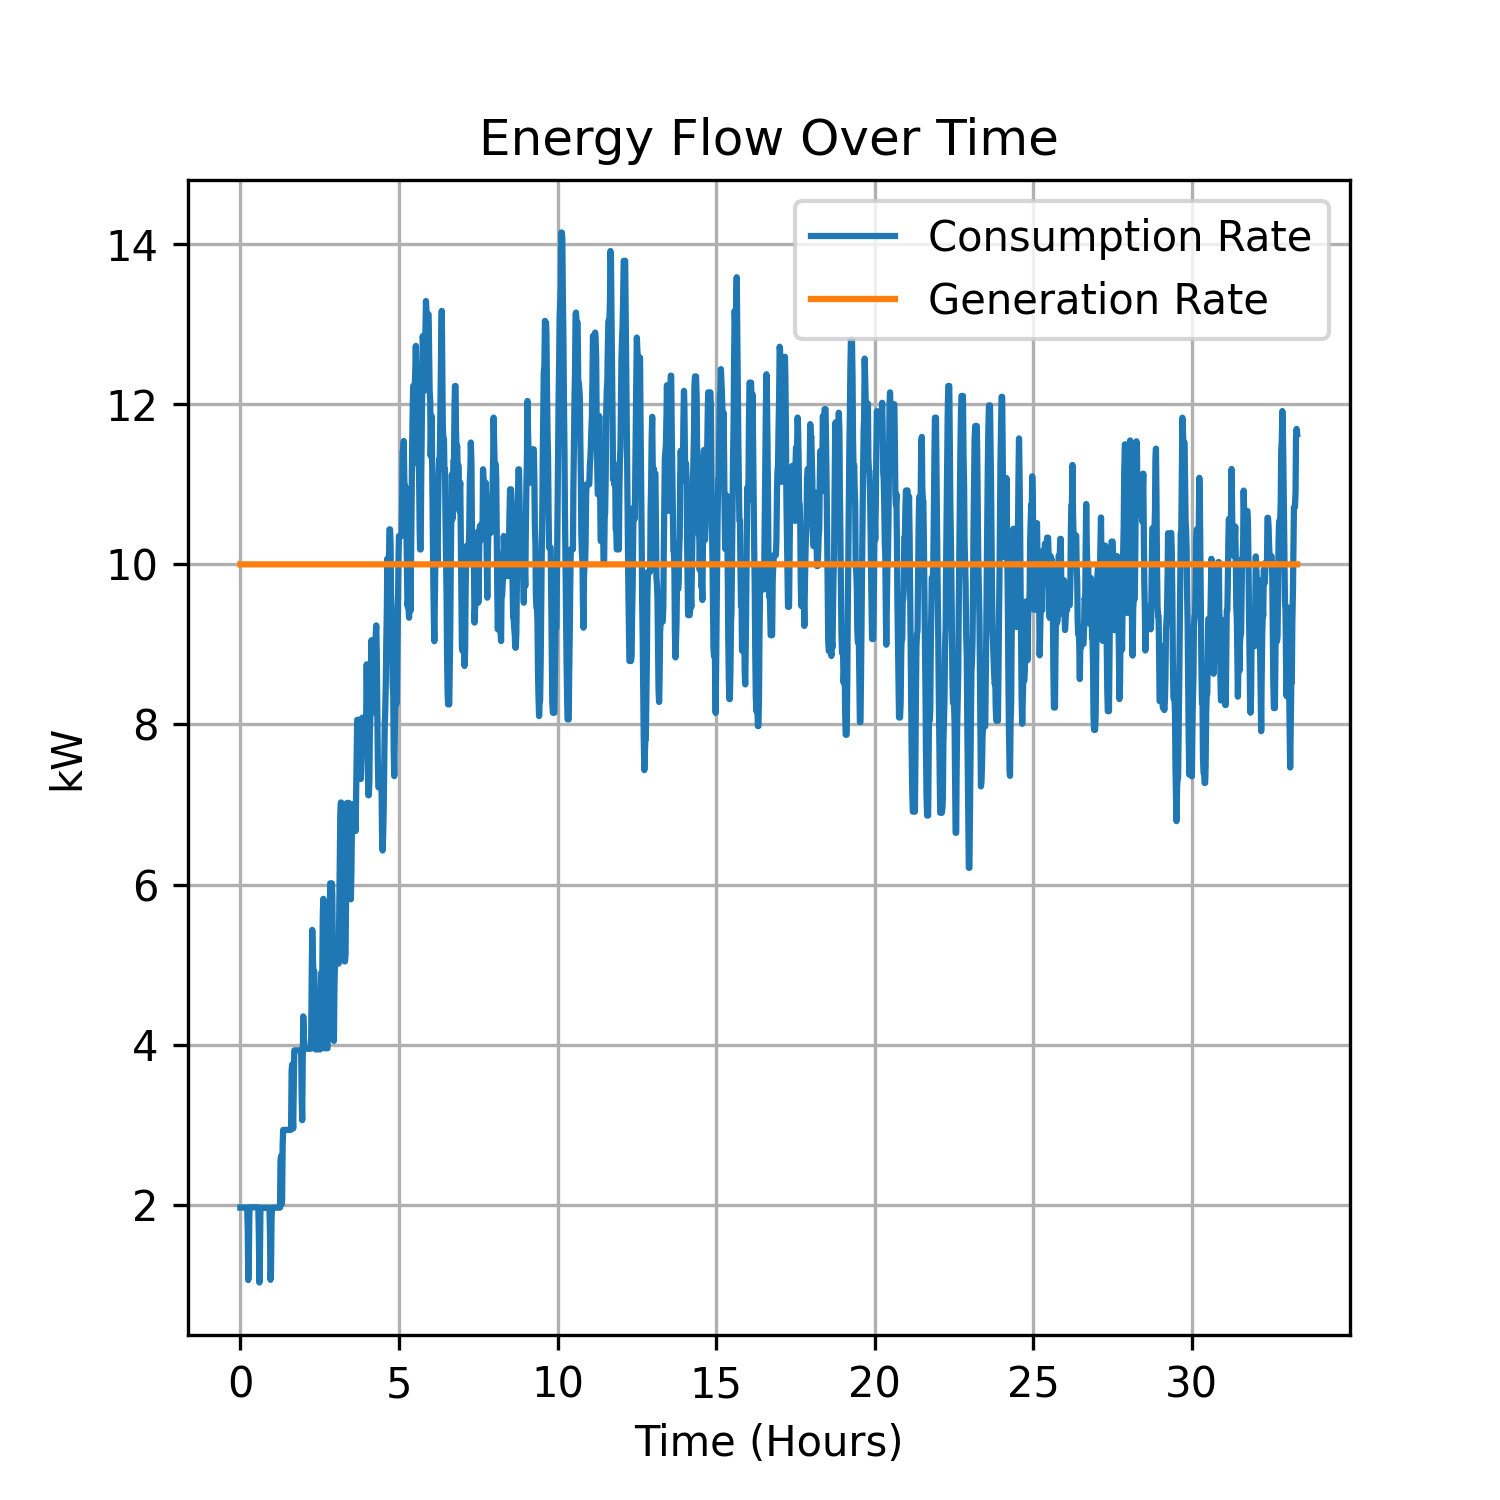
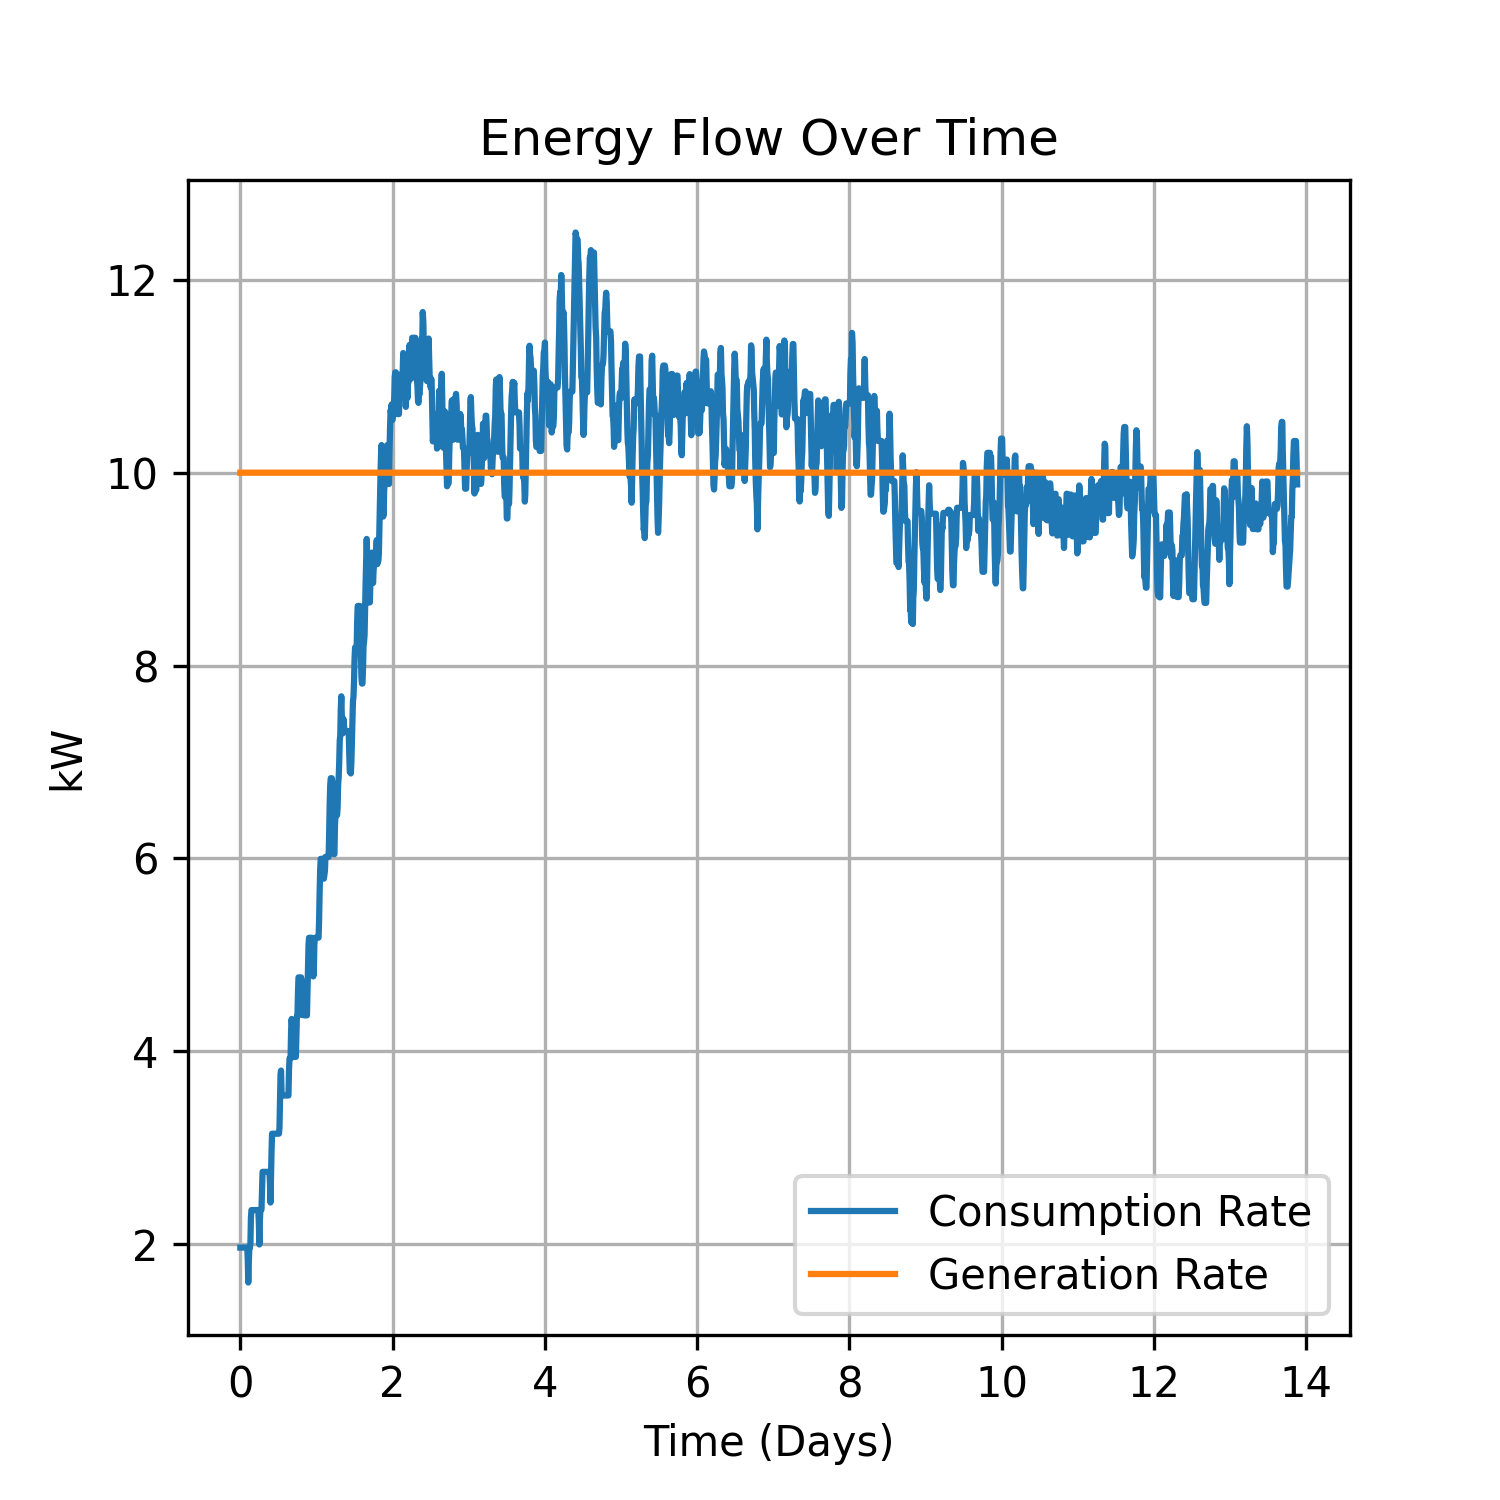
final

diff --git a/Misc/resourceDataPlotter.py b/Misc/resourceDataPlotter.py
@@ -13,20 +13,20 @@ def j_to_kwh(x):
 def w_to_kw(x):
   return x / 1000
 
-def s_to_hr(x):
-  return x / 3600
+def s_to_day(x):
+  return x / 3600 / 24
 
 def process(df):
-  n = 40
+  n = 100
   s = lambda x: ma(x, n)
   raw_generated = df['totalGenerated']
   raw_drained = raw_generated - df['battery']
   dt = np.diff(df['time'], prepend=-1)
   return {
-    'time': s_to_hr(df['time'][:-(n-1)]), # technically incorrect but look better
+    'time': s_to_day(df['time'][:-(n-1)] * 10), # technically incorrect but look better
     'battery': j_to_kwh(s(df['battery'])),
     'total_ore':  s(df['totalDirt']),
-    'modules': s(df['totalModules']),
+    'modules': ma(df['totalModules'], 30),
     'generated': w_to_kw(np.full_like(s(np.diff(raw_generated, prepend=raw_generated[0]) / dt), 1e4)), # fuck me
     'drained': w_to_kw(s(np.diff(raw_drained, prepend=raw_drained[0]) / dt))
   }
@@ -54,7 +54,7 @@ fig1, ax1 = plt.subplots(1, 1, figsize=(5, 5))
 ax1.plot(growth['time'], growth['drained'], label='Consumption Rate')
 ax1.plot(growth['time'], growth['generated'], label='Generation Rate')
 ax1.set_title('Energy Flow Over Time')
-ax1.set_xlabel('Time (Hours)')
+ax1.set_xlabel('Time (Days)')
 ax1.set_ylabel('kW')
 ax1.grid(True)
 ax1.legend()
@@ -76,12 +76,12 @@ fig2, ax1 = plt.subplots(1, 1, figsize=(5, 5))
 
 ax1.plot(growth['time'], growth['modules'], label='Replicating')
 ax1.plot(growth['time'], baseline['modules'], label='Baseline')
-ax1.set_xlabel('Time (Hours)')
+ax1.set_xlabel('Time (Days)')
 ax1.set_ylabel('Total Modules Produced')
 ax1.set_title('Total Modules Produced Over Time')
 ax1.grid(True)
 ax1.legend()
-inset = ax1.inset_axes([0.65, 0.00, 0.35, 0.35], xlim=(0, 7), ylim=(0, 100), xticklabels=[], yticklabels=[])
+inset = ax1.inset_axes([0.65, 0.00, 0.35, 0.35], xlim=(0, 3), ylim=(0, 100), xticklabels=[], yticklabels=[])
 inset.plot(growth['time'], growth['modules'], label='Replicating')
 inset.plot(growth['time'], baseline['modules'], label='Baseline')
 ax1.indicate_inset_zoom(inset, edgecolor='black')

diff --git a/Assets/Scripts/Constants.cs b/Assets/Scripts/Constants.cs
@@ -17,16 +17,16 @@ public static class Constants
     // Processing
     public const float centralDirtCapacity = 20000; // g, how much dirt can be stored
 
-    public const float powderizeRate = 10; // g/s, dirt -> powder rate
-    public const float powderizeDrain = 10000; // W, how much energy it costs to run powderize
+    public const float powderizeRate = 10 * 10; // g/s, dirt -> powder rate
+    public const float powderizeDrain = 10000 * 10; // W, how much energy it costs to run powderize
     public const float powderizeYield = 0.95f; // ratio
 
-    public const float heatRate = 10; // g/s, powder -> printable rate
+    public const float heatRate = 10 * 10; // g/s, powder -> printable rate
     public const float heatDrain = 0; // 5000; // W
     public const float heatYield = 0.96f; // ratio
 
-    public const float printRate = 5f;//0.3f; // g/s, printable -> spare module rate
-    public const float printDrain = 20000; // W
+    public const float printRate = 5f * 10;//0.3f; // g/s, printable -> spare module rate
+    public const float printDrain = 20000 * 10; // W
     public const float moduleMass = 300; // g
     public const float spareModuleCapacity = 100000; // # spare modules
 
@@ -50,8 +50,8 @@ public static class Constants
     public const int NarmModules = 11;
     public const int NroverModules = 6;
 
-    public const int targetArms = 1;
-    public const int targetRovers = 4;
+    public const int targetArms = 3;
+    public const int targetRovers = 8;
 }
 
 // 0.01 speed + 0.5 servo active drain gives like 250 W/m (bad)

diff --git a/Assets/Scripts/CentralResources.cs b/Assets/Scripts/CentralResources.cs
@@ -44,7 +44,7 @@ public class CentralResources : MonoBehaviour
             var desired = System.Math.Min(Dirt.current / (Constants.powderizeRate * Time.deltaTime), 1.0);
             if (desired > 0.01)
             {
-                var ratio = Battery.budgetRemove(Constants.powderizeDrain, Time.deltaTime, 0.95);
+                var ratio = Battery.budgetRemove(desired * Constants.powderizeDrain, Time.deltaTime, 0.95);
                 Dirt.transferTo(Powder, ratio * desired * Constants.powderizeRate, Time.deltaTime, Constants.powderizeYield);
             }
         }
@@ -61,7 +61,7 @@ public class CentralResources : MonoBehaviour
             var desired = System.Math.Min(PrintMaterial.current / (Constants.printRate * Time.deltaTime), 1.0);
             if (desired > 0.01)
             {
-                var ratio = Battery.budgetRemove(Constants.printDrain, Time.deltaTime, 0.95);
+                var ratio = Battery.budgetRemove(desired * Constants.printDrain, Time.deltaTime, 0.95);
                 double old = SpareModules.current;
                 PrintMaterial.transferTo(SpareModules, ratio * Constants.printRate, Time.deltaTime, 1 / Constants.moduleMass);
                 TotalModules += (SpareModules.current - old);
